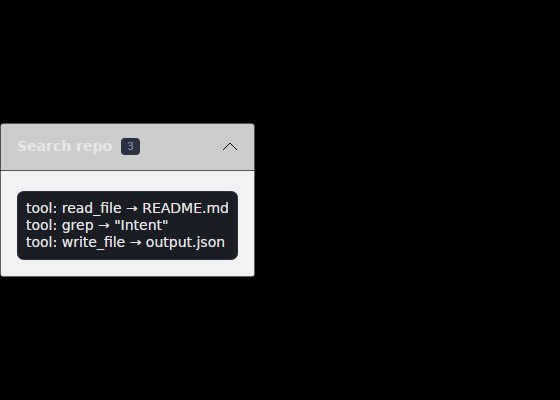
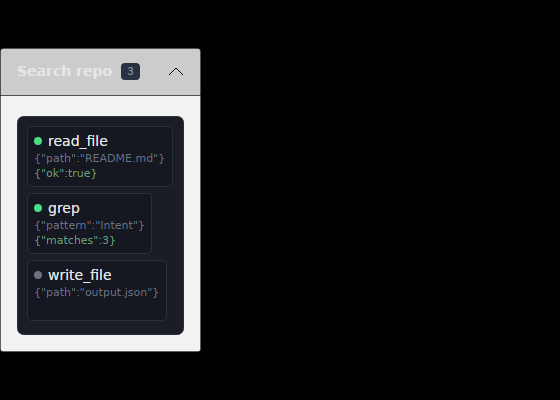
feat(acp-client): show user prompts + wire clipboard + realistic intent group screenshots
- Domain: add ChatUserPrompt event + ChatUserText item; reducer appends user messages
- Shell: locally echo prompt into transcript before sending
- UI: user message bubble template
- Clipboard: inject AvaloniaClipboardService at runtime; ToolCallRowViewModel passes it into ToolCallDetailViewModel
- Tests: add reducer test; update ChatView screenshot to include user prompt; update intent group screenshot to use real tool rows

Changed region(s): [[0.0, 0.12, 0.4554, 0.9]]

diff --git a/src/Agent.Acp.Client.AvaloniaApp/ViewModels/Conversation/ChatViewModel.cs b/src/Agent.Acp.Client.AvaloniaApp/ViewModels/Conversation/ChatViewModel.cs
@@ -11,6 +11,13 @@ namespace Agent.Acp.Client.AvaloniaApp.ViewModels.Conversation;
 /// </summary>
 public sealed partial class ChatViewModel : ObservableObject
 {
+    private readonly Agent.Acp.Client.AvaloniaApp.Services.Clipboard.IClipboardService? _clipboard;
+
+    public ChatViewModel(Agent.Acp.Client.AvaloniaApp.Services.Clipboard.IClipboardService? clipboard = null)
+    {
+        _clipboard = clipboard;
+    }
+
     private ChatState _state = ChatState.Empty;
 
     private bool _isStreaming;
@@ -26,6 +33,13 @@ public sealed partial class ChatViewModel : ObservableObject
         _state = ChatReducer.Reduce(_state, new ChatSessionUpdate(update));
 
         _isStreaming = update is AgentMessageChunk or AgentThoughtChunk;
+        RebuildTranscript();
+    }
+
+    public void ApplyUserPrompt(string text)
+    {
+        _state = ChatReducer.Reduce(_state, new ChatUserPrompt(text));
+        _isStreaming = false;
         RebuildTranscript();
     }
 
@@ -48,7 +62,7 @@ public sealed partial class ChatViewModel : ObservableObject
                         Transcript.Add(pendingGroup);
                     }
 
-                    pendingGroup.Items.Add(new ToolCallRowViewModel(tc.ToolCallId, tc.Title)
+                    pendingGroup.Items.Add(new ToolCallRowViewModel(tc.ToolCallId, tc.Title, clipboard: _clipboard)
                     {
                         Status = tc.Status,
                         RawInputJson = tc.RawInputJson,
@@ -61,6 +75,11 @@ public sealed partial class ChatViewModel : ObservableObject
                 case ChatText t:
                     pendingGroup = null;
                     Transcript.Add(t.Text);
+                    break;
+
+                case ChatUserText u:
+                    pendingGroup = null;
+                    Transcript.Add(new UserMessageViewModel(u.Text));
                     break;
 
                 case ChatThought th:

diff --git a/tests/Agent.Acp.Client.AvaloniaApp.Tests/IntentGroupViewScreenshotTests.cs b/tests/Agent.Acp.Client.AvaloniaApp.Tests/IntentGroupViewScreenshotTests.cs
@@ -14,14 +14,27 @@ public sealed class IntentGroupViewScreenshotTests
     [AvaloniaFact]
     public void Renders_expanded_and_collapsed_states()
     {
-        var items = new object[]
-        {
-            "tool: read_file → README.md",
-            "tool: grep → \"Intent\"",
-            "tool: write_file → output.json"
-        };
+        var vm = new IntentGroupViewModel("Search repo", items: []);
 
-        var vm = new IntentGroupViewModel("Search repo", items);
+        vm.Items.Add(new ToolCallRowViewModel("t1", "read_file")
+        {
+            Status = Agent.Acp.Schema.ToolCallStatus.Completed,
+            RawInputJson = "{\"path\":\"README.md\"}",
+            RawOutputJson = "{\"ok\":true}",
+        });
+
+        vm.Items.Add(new ToolCallRowViewModel("t2", "grep")
+        {
+            Status = Agent.Acp.Schema.ToolCallStatus.Completed,
+            RawInputJson = "{\"pattern\":\"Intent\"}",
+            RawOutputJson = "{\"matches\":3}",
+        });
+
+        vm.Items.Add(new ToolCallRowViewModel("t3", "write_file")
+        {
+            Status = Agent.Acp.Schema.ToolCallStatus.InProgress,
+            RawInputJson = "{\"path\":\"output.json\"}",
+        });
 
         ScreenshotTestHarness.Save(new IntentGroupView { DataContext = vm }, width: 560, height: 400, fileName: "intent-group-expanded.png");
 

diff --git a/src/Agent.Acp.Client.AvaloniaApp/ViewModels/Conversation/ToolCallRowViewModel.cs b/src/Agent.Acp.Client.AvaloniaApp/ViewModels/Conversation/ToolCallRowViewModel.cs
@@ -12,8 +12,11 @@ public sealed partial class ToolCallRowViewModel : ObservableObject
     private static readonly IBrush ErrorBrush = new SolidColorBrush(Color.Parse("#EF4444")); // red
     private static readonly IBrush DefaultBrush = new SolidColorBrush(Color.Parse("#6B7280")); // gray
 
-    public ToolCallRowViewModel(string toolCallId, string title)
+    private readonly Agent.Acp.Client.AvaloniaApp.Services.Clipboard.IClipboardService? _clipboard;
+
+    public ToolCallRowViewModel(string toolCallId, string title, Agent.Acp.Client.AvaloniaApp.Services.Clipboard.IClipboardService? clipboard = null)
     {
+        _clipboard = clipboard;
         ToolCallId = toolCallId;
         Title = title;
     }
@@ -62,9 +65,8 @@ public sealed partial class ToolCallRowViewModel : ObservableObject
             title: Title,
             status: Status.ToString(),
             rawInputJson: RawInputJson,
-            rawOutputJson: RawOutputJson);
-
-    // NOTE: clipboard wiring will be injected from Shell/runtime later.
+            rawOutputJson: RawOutputJson,
+            clipboard: _clipboard);
 
     private static string? Preview(string? s)
     {

diff --git a/src/Agent.Acp.Client.AvaloniaApp/ViewModels/Shell/ShellViewModel.cs b/src/Agent.Acp.Client.AvaloniaApp/ViewModels/Shell/ShellViewModel.cs
@@ -16,7 +16,11 @@ public sealed partial class ShellViewModel : ObservableObject
     public ShellViewModel()
     {
         Connection = new ConnectionViewModel();
-        _chat = new ChatViewModel();
+
+        // Runtime services
+        var clipboard = new Agent.Acp.Client.AvaloniaApp.Services.Clipboard.AvaloniaClipboardService();
+
+        _chat = new ChatViewModel(clipboard);
         _composer = new ComposerViewModel(send: SendPromptAsync);
 
         CurrentScreen = Screen.Connection;
@@ -51,6 +55,10 @@ public sealed partial class ShellViewModel : ObservableObject
             throw new InvalidOperationException("Not connected");
 
         var text = _composer.Text;
+
+        // Local echo: show what the user sent.
+        _chat.ApplyUserPrompt(text);
+
         return AcpClientBootstrap.PromptAsync(_process.Connection, _sessionId, text, cancellationToken);
     }
 

diff --git a/src/Agent.Acp.Client.AvaloniaApp/Domain/Conversation/ChatReducer.cs b/src/Agent.Acp.Client.AvaloniaApp/Domain/Conversation/ChatReducer.cs
@@ -12,8 +12,21 @@ public static class ChatReducer
         => e switch
         {
             ChatSessionUpdate u => Reduce(state, u.Update),
+            ChatUserPrompt p => ReduceUserPrompt(state, p),
             _ => state,
         };
+
+    private static ChatState ReduceUserPrompt(ChatState state, ChatUserPrompt p)
+    {
+        if (string.IsNullOrWhiteSpace(p.Text))
+            return state;
+
+        return state with
+        {
+            Items = state.Items.Add(new ChatUserText(p.Text.Trim())),
+            LastChunk = LastChunkKind.None
+        };
+    }
 
     private static ChatState Reduce(ChatState state, SessionUpdate update)
         => update switch

diff --git a/tests/Agent.Acp.Client.AvaloniaApp.Tests/ChatUserPromptReducerTests.cs b/tests/Agent.Acp.Client.AvaloniaApp.Tests/ChatUserPromptReducerTests.cs
@@ -1,0 +1,18 @@
+using Agent.Acp.Client.AvaloniaApp.Domain.Conversation;
+using Xunit;
+
+namespace Agent.Acp.Client.AvaloniaApp.Tests;
+
+public sealed class ChatUserPromptReducerTests
+{
+    [Fact]
+    public void UserPrompt_AddsUserTextItem()
+    {
+        var s = ChatState.Empty;
+        s = ChatReducer.Reduce(s, new ChatUserPrompt(" hello "));
+
+        Assert.Single(s.Items);
+        var u = Assert.IsType<ChatUserText>(s.Items[0]);
+        Assert.Equal("hello", u.Text);
+    }
+}

diff --git a/src/Agent.Acp.Client.AvaloniaApp/Domain/Conversation/ChatItem.cs b/src/Agent.Acp.Client.AvaloniaApp/Domain/Conversation/ChatItem.cs
@@ -4,6 +4,9 @@ public abstract record ChatItem;
 
 public sealed record ChatText(string Text) : ChatItem;
 
+/// <summary>Local user message bubble.</summary>
+public sealed record ChatUserText(string Text) : ChatItem;
+
 /// <summary>
 /// Agent reasoning / thoughts. Render separately (italic) and optionally collapsible.
 /// ThoughtId is stable across streaming updates so the UI can preserve expand/collapse state.

diff --git a/src/Agent.Acp.Client.AvaloniaApp/Domain/Conversation/ChatEvent.cs b/src/Agent.Acp.Client.AvaloniaApp/Domain/Conversation/ChatEvent.cs
@@ -5,3 +5,8 @@ namespace Agent.Acp.Client.AvaloniaApp.Domain.Conversation;
 public abstract record ChatEvent;
 
 public sealed record ChatSessionUpdate(SessionUpdate Update) : ChatEvent;
+
+/// <summary>
+/// Local user input (before/while sending to agent). Not part of ACP session/update stream.
+/// </summary>
+public sealed record ChatUserPrompt(string Text) : ChatEvent;

diff --git a/tests/Agent.Acp.Client.AvaloniaApp.Tests/ChatViewScreenshotTests.cs b/tests/Agent.Acp.Client.AvaloniaApp.Tests/ChatViewScreenshotTests.cs
@@ -16,6 +16,9 @@ public sealed class ChatViewScreenshotTests
     {
         var vm = new ChatViewModel();
 
+        // Local user prompt (echoed in transcript)
+        vm.ApplyUserPrompt("Patch README: add a quickstart section");
+
         // Simulate the flow: report_intent → tool calls → assistant text
         vm.Apply(new ToolCall
         {

diff --git a/src/Agent.Acp.Client.AvaloniaApp/ViewModels/Conversation/UserMessageViewModel.cs b/src/Agent.Acp.Client.AvaloniaApp/ViewModels/Conversation/UserMessageViewModel.cs
@@ -1,0 +1,11 @@
+namespace Agent.Acp.Client.AvaloniaApp.ViewModels.Conversation;
+
+public sealed class UserMessageViewModel
+{
+    public UserMessageViewModel(string text)
+    {
+        Text = text;
+    }
+
+    public string Text { get; }
+}
